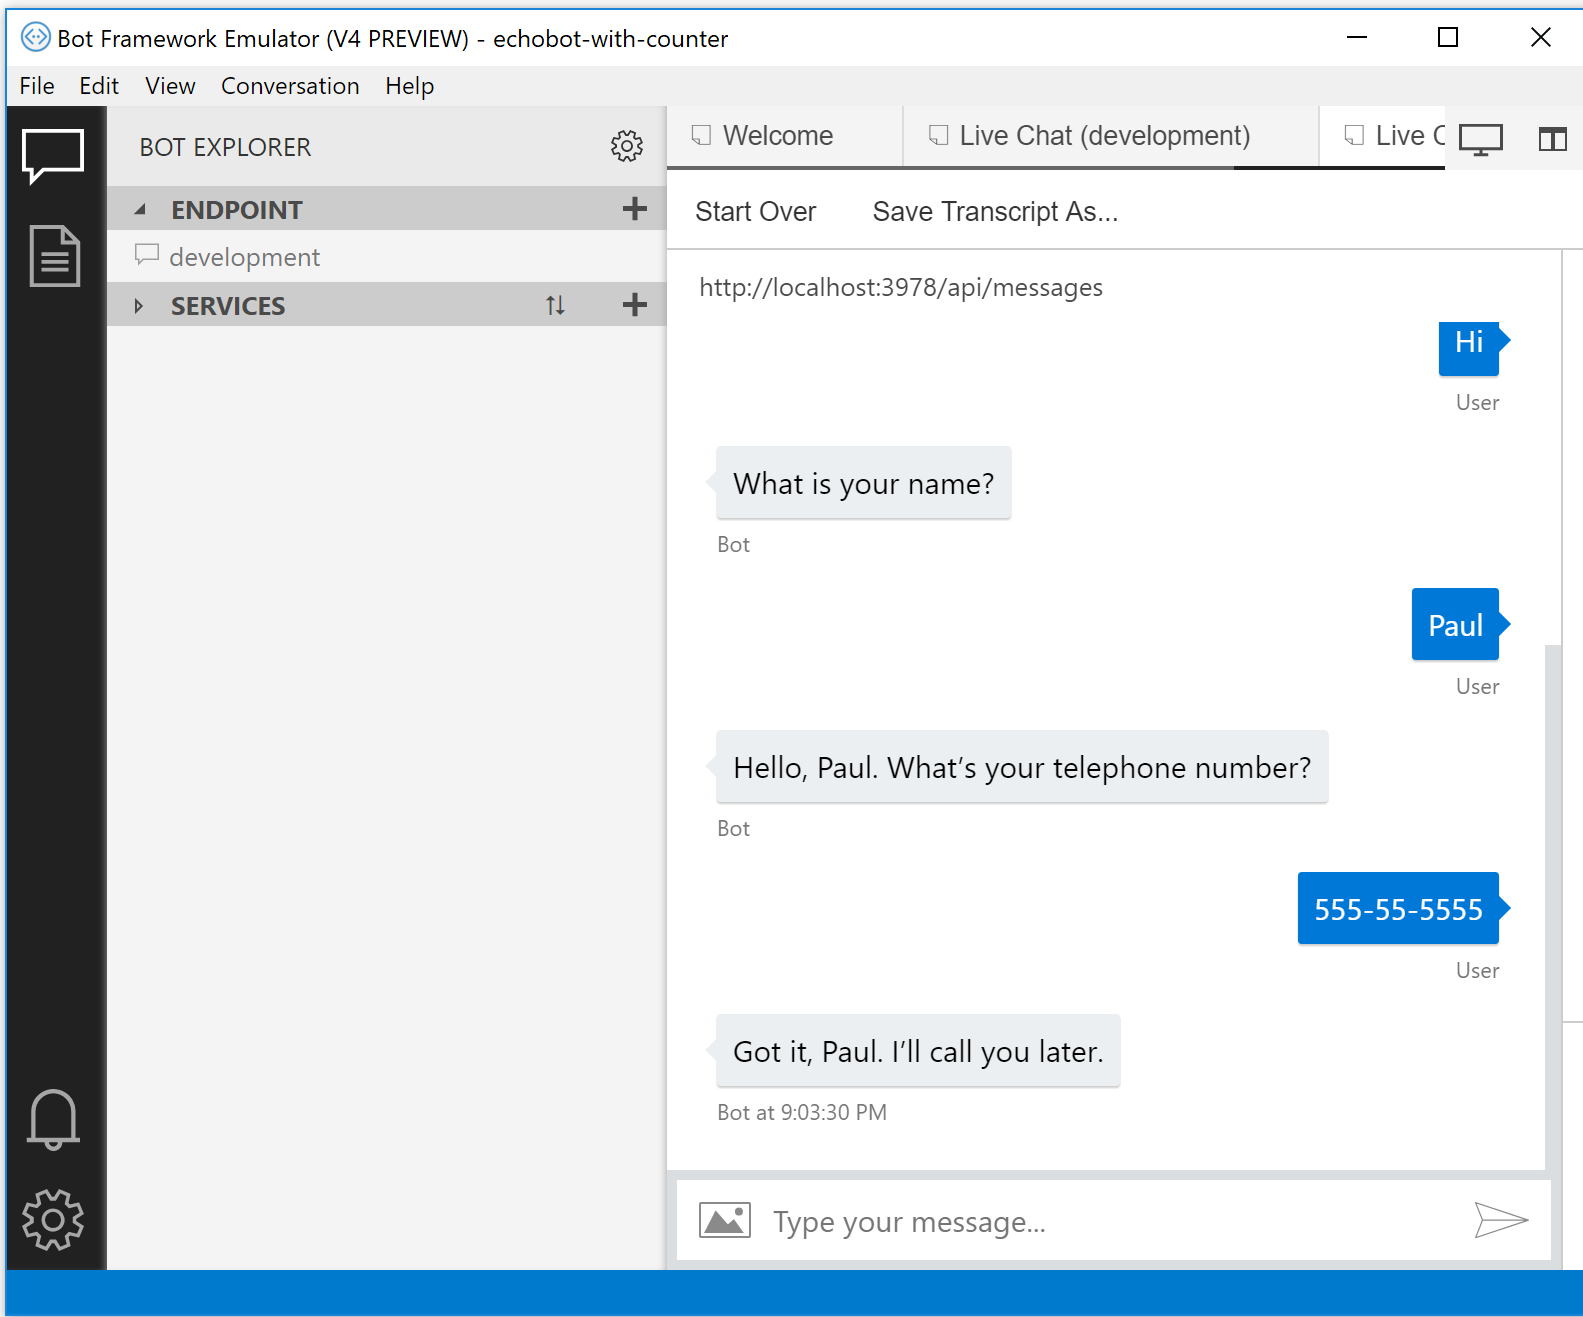
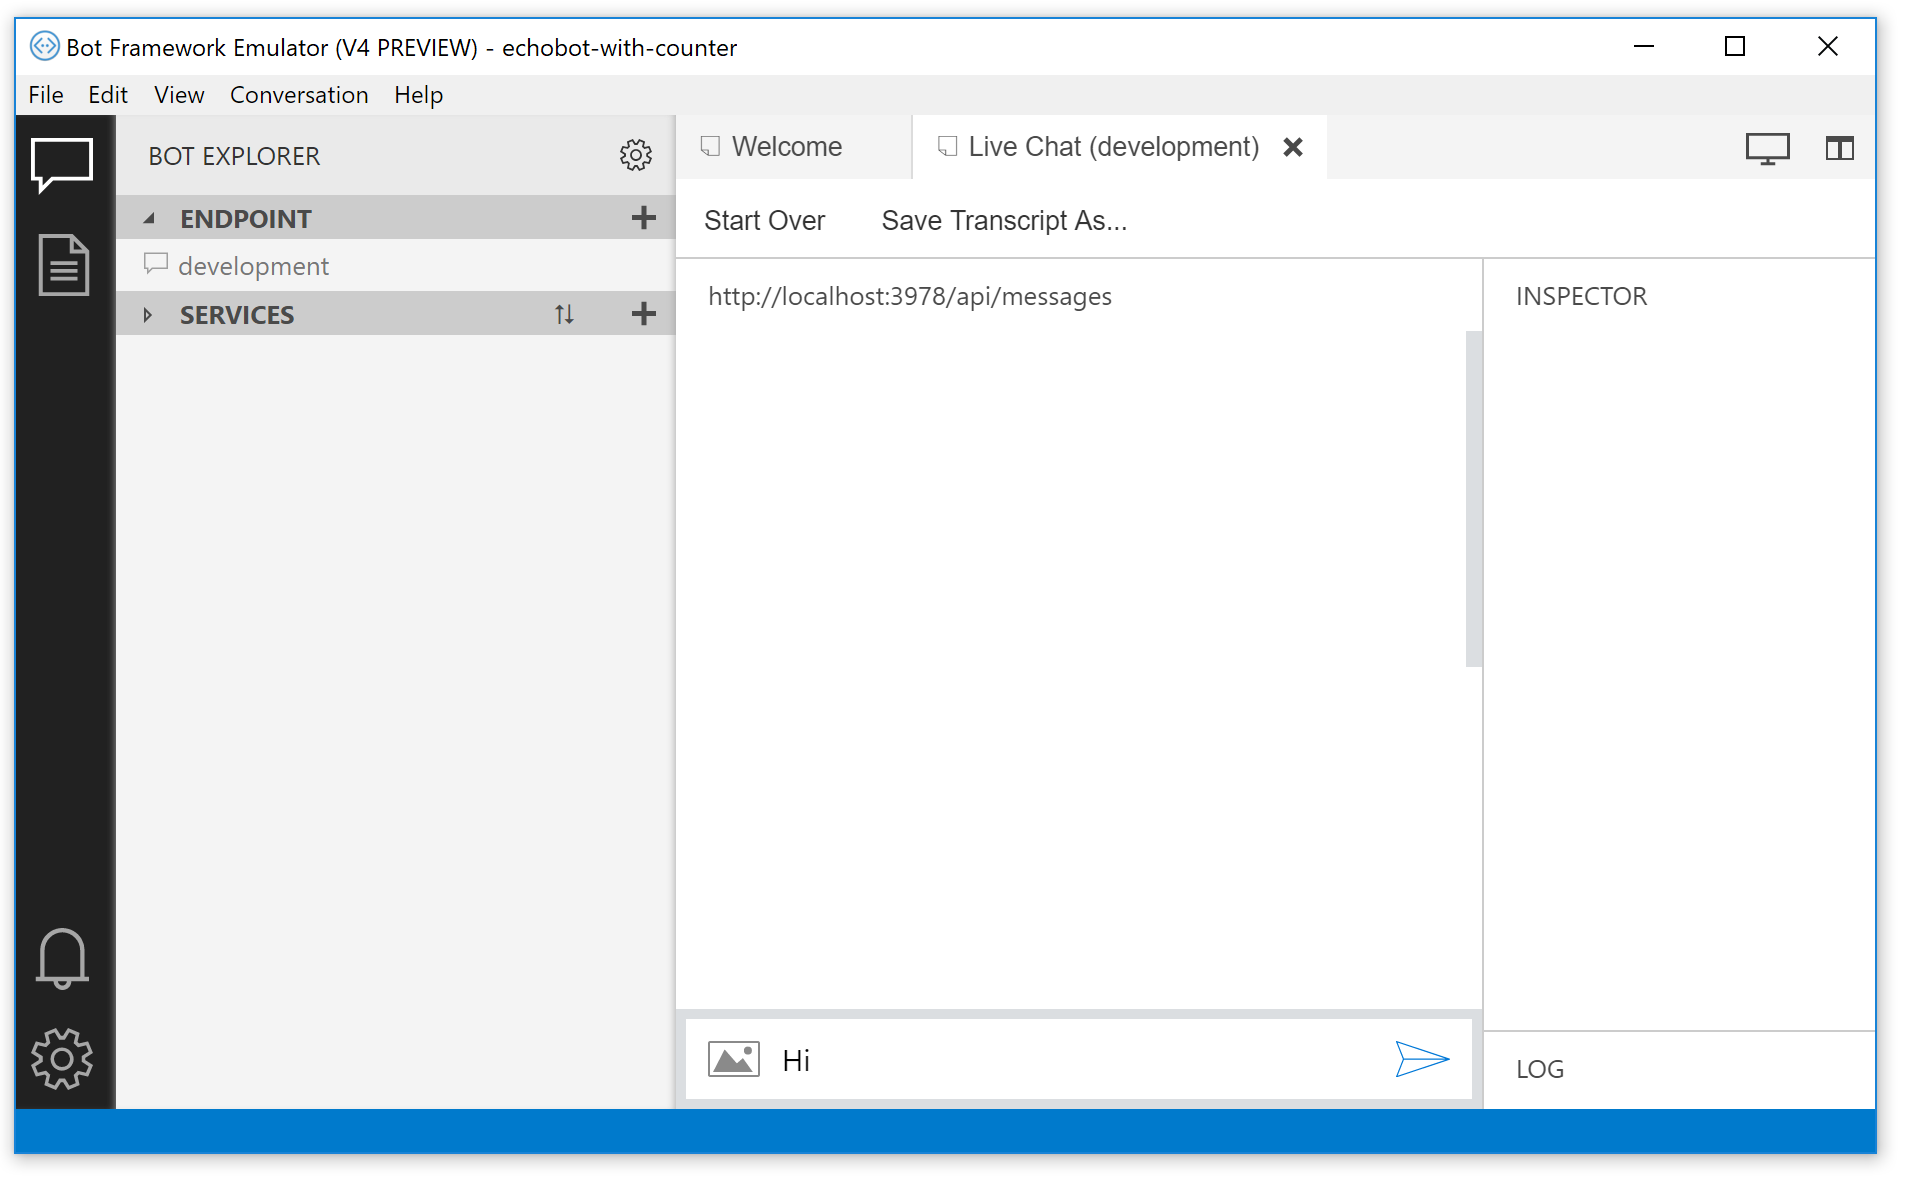
Emulator screenshot update (#1053)
* Add files via upload

* Add files via upload

* Update bot-builder-howto-v4-state.md

diff --git a/articles/v4sdk/bot-builder-howto-v4-state.md b/articles/v4sdk/bot-builder-howto-v4-state.md
@@ -314,7 +314,7 @@ Next, start the emulator and then connect to your bot in the emulator:
 ### Interact with your bot
 
 Send a "Hi" message to your bot, and the bot will ask for your name and phone number. After you provide that informmation, the bot will send a confirmation messsage. If you continue after that, the bot will go through the same cycle again.
-![Emulator running](../media/emulator-v4/emulator-running.png)
+![Emulator running](../media/emulator-v4/emulator-running-manage-state.png)
 
 If you decide to manage state yourself, see [manage conversation flow with your own prompts](bot-builder-primitive-prompts.md). An alternative is to use the waterfall dialog. The dialog keeps track of the conversation state for you so you do not need to create flags to track your state. For more information, see [manage a simple conversation with dialogs](bot-builder-dialog-manage-conversation-flow.md).
 
